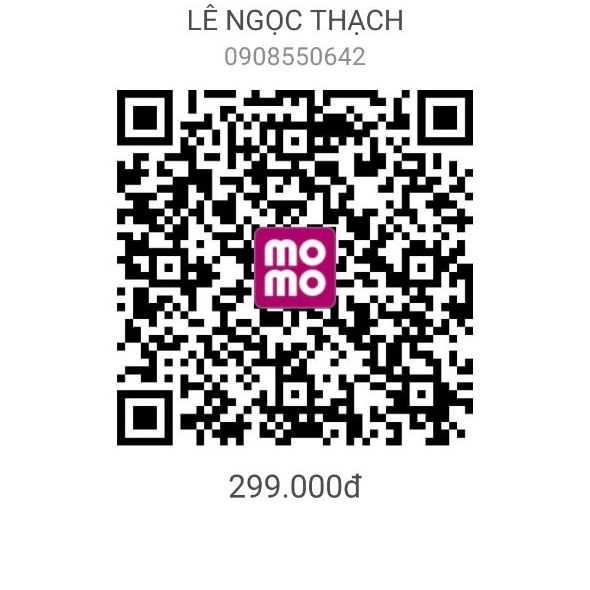
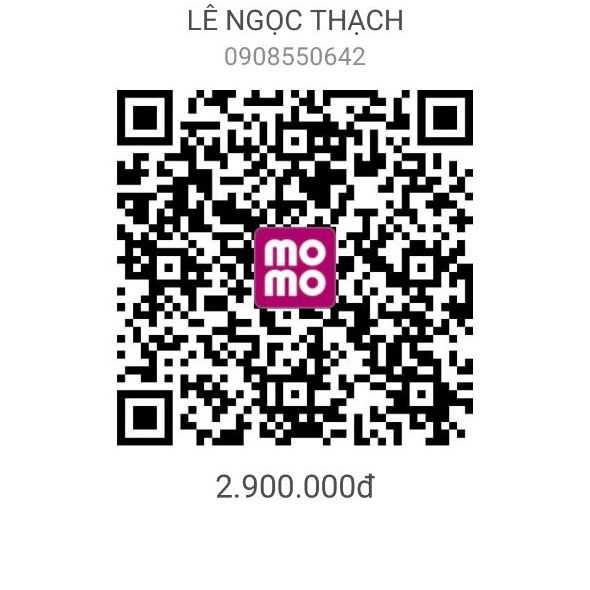
Fix bugs.

diff --git a/courses/java1/index.html b/courses/java1/index.html
@@ -208,7 +208,7 @@
                 <div class="col-12 text-center display-table-cell">
                   <i class="fa fa-keyboard-o font-large-1 white lighten-3 align-left"></i> <span class="white align-left">Nội dung tin nhắn: Java1</span>
                   <br/>
-                  <H2 class="yellow text-left">Đăng ký ngay hôm nay chỉ 2.9M</H2>
+                  <H2 class="yellow text-left">Đăng ký ngay hôm nay chỉ 2.9M.<br/>Ưu đã kết thúc trong tháng 10.</H2>
                 </div>
             </div>
             <div class="row">
